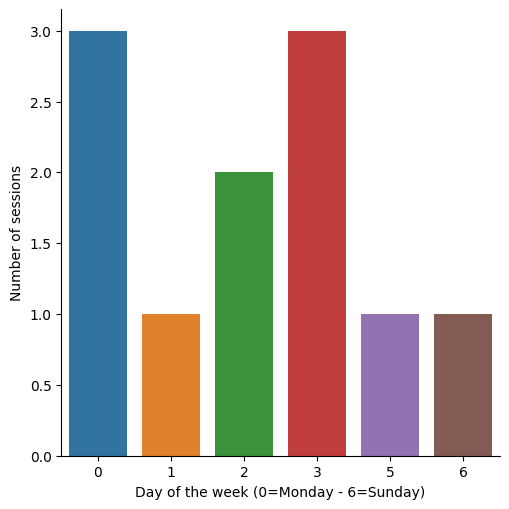
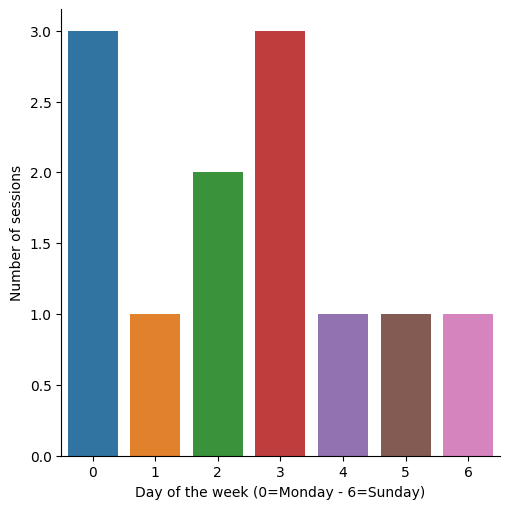
"Stats generated 2021-07-10"

diff --git a/all/2021/7/weekdays/4/index.html b/all/2021/7/weekdays/4/index.html
@@ -1,0 +1,29 @@
+<!DOCTYPE html>
+<html>
+  <head>
+    <meta charset="utf-8"/>
+    <title>Fridays July 2021</title>
+    <link rel="stylesheet" href="../../../../../styles.css"/>
+  </head>
+  <body>
+    <div id="container">
+      <nav>
+        <ul>
+          
+            <li><a href="../../">July 2021</a></li>
+            <li class="separator"></li>
+          
+          
+        </ul>
+      </nav>
+      <main>
+        <h1>Fridays July 2021</h1>
+        
+          <h2>Number of sessions per hour</h2>
+          <img src="sessions.png" alt="Number of sessions per hour"/>
+        
+        
+      </main>
+    </div>
+  </body>
+</html>

diff --git a/all/2021/7/days/9/index.html b/all/2021/7/days/9/index.html
@@ -1,0 +1,29 @@
+<!DOCTYPE html>
+<html>
+  <head>
+    <meta charset="utf-8"/>
+    <title>9 July 2021</title>
+    <link rel="stylesheet" href="../../../../../styles.css"/>
+  </head>
+  <body>
+    <div id="container">
+      <nav>
+        <ul>
+          
+            <li><a href="../../">July 2021</a></li>
+            <li class="separator"></li>
+          
+          
+        </ul>
+      </nav>
+      <main>
+        <h1>9 July 2021</h1>
+        
+          <h2>Number of sessions per hour</h2>
+          <img src="sessions.png" alt="Number of sessions per hour"/>
+        
+        
+      </main>
+    </div>
+  </body>
+</html>

diff --git a/all/2021/7/index.html b/all/2021/7/index.html
@@ -35,6 +35,10 @@
             
           
             
+              <li><a href="weekdays/4/">Friday</a></li>
+            
+          
+            
               <li><a href="weekdays/5/">Saturday</a></li>
             
           
@@ -68,6 +72,10 @@
           
             
               <li><a href="days/7/">7</a></li>
+            
+          
+            
+              <li><a href="days/9/">9</a></li>
             
           
         </ul>

diff --git a/all/2021/index.html b/all/2021/index.html
@@ -121,9 +121,9 @@
                   
                     <td>7.0</td>
                   
-                    <td>11.0</td>
+                    <td>12.0</td>
                   
-                    <td>87.0559444</td>
+                    <td>80.14818501666667</td>
                   
                 </tr>
               
